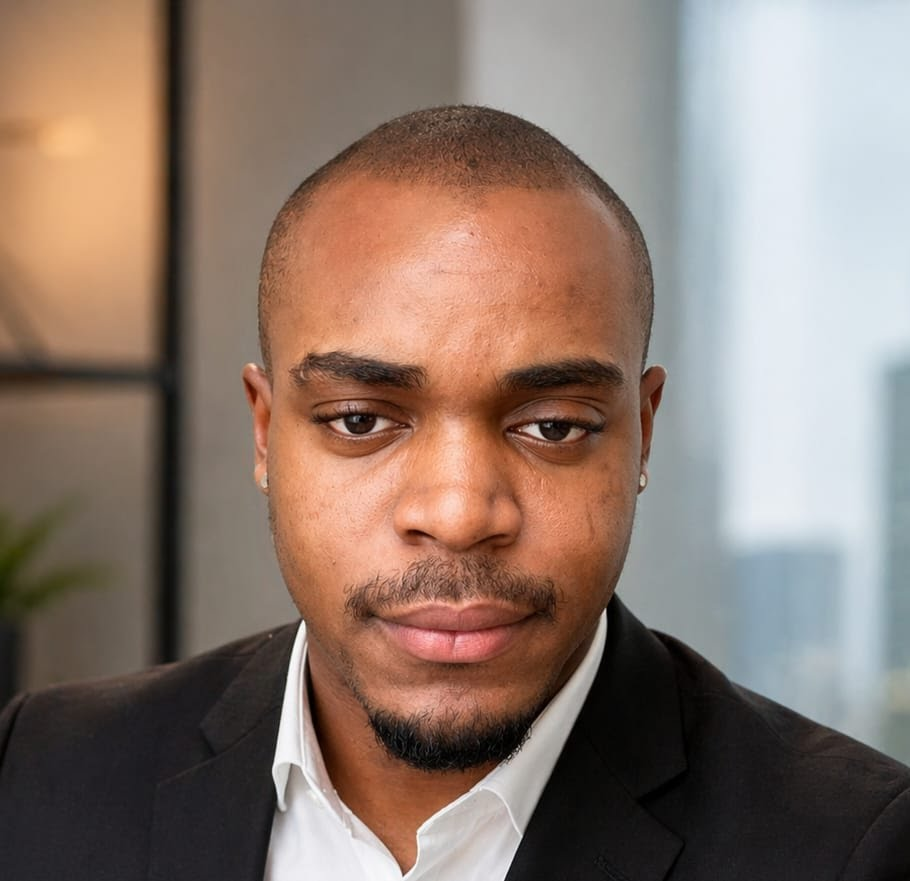
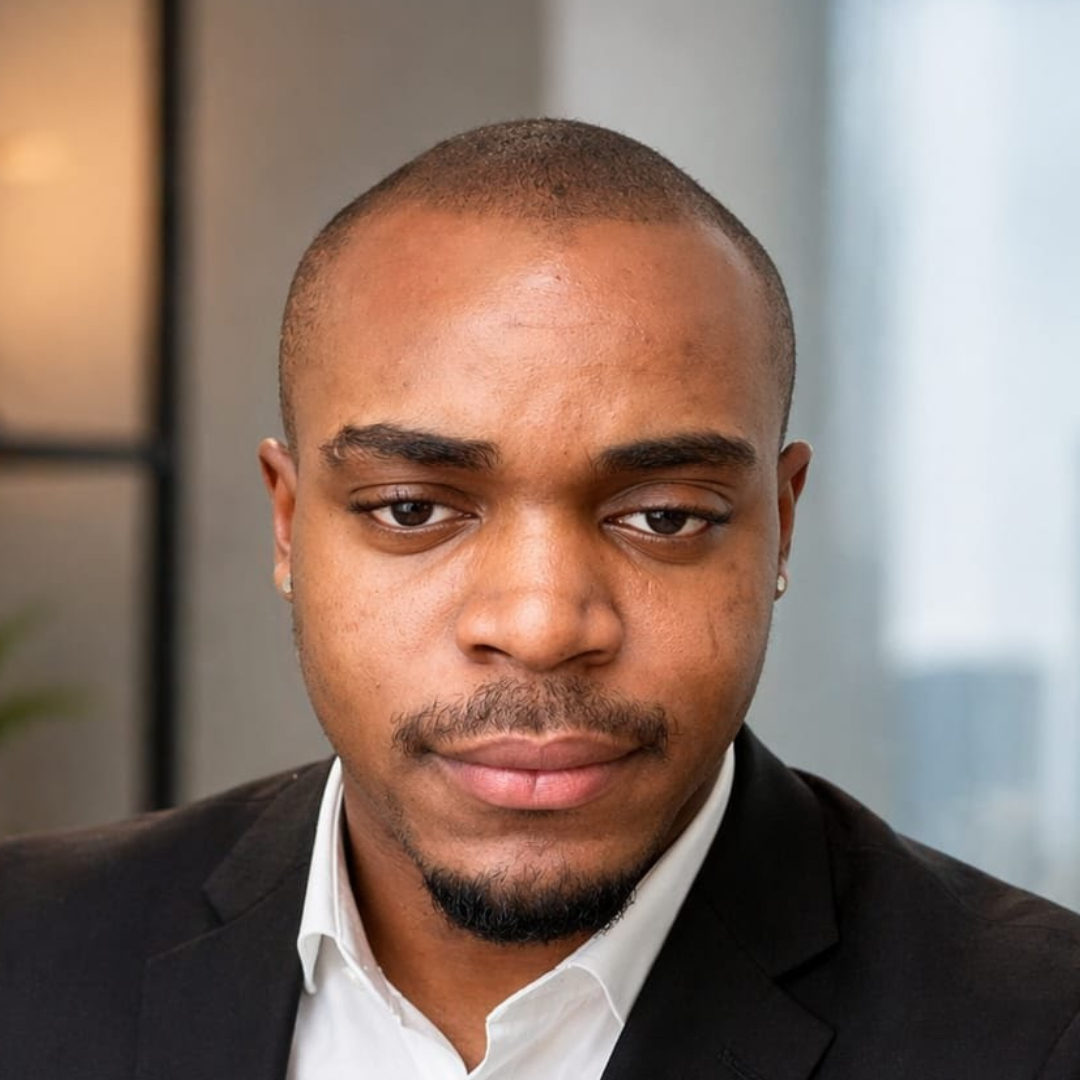
feat(ai): migrate Gemini to Supabase Edge Function to resolve CORS and secure API key

diff --git a/supabase/functions/ai-analyze/index.ts b/supabase/functions/ai-analyze/index.ts
@@ -1,13 +1,15 @@
-import { GoogleGenAI } from "npm:@google/genai";
+import { serve } from 'https://deno.land/std@0.168.0/http/server.ts';
 
-const corsHeaders = {
+const CORS_HEADERS = {
   'Access-Control-Allow-Origin': '*',
   'Access-Control-Allow-Headers': 'authorization, x-client-info, apikey, content-type',
+  'Content-Type': 'application/json',
 };
 
-Deno.serve(async (req) => {
+serve(async (req) => {
+  // Handle CORS preflight
   if (req.method === 'OPTIONS') {
-    return new Response('ok', { headers: corsHeaders });
+    return new Response('ok', { headers: CORS_HEADERS });
   }
 
   try {
@@ -15,46 +17,84 @@ Deno.serve(async (req) => {
 
     const apiKey = Deno.env.get('GEMINI_API_KEY');
     if (!apiKey) {
-      return new Response(JSON.stringify({ error: "Missing GEMINI_API_KEY" }), { 
-        status: 500, 
-        headers: { ...corsHeaders, 'Content-Type': 'application/json' } 
-      });
+      return new Response(
+        JSON.stringify({ error: 'GEMINI_API_KEY not configured' }),
+        { status: 500, headers: CORS_HEADERS }
+      );
     }
 
-    const ai = new GoogleGenAI({ apiKey });
+    let prompt = '';
 
-    let result = '';
+    if (type === 'insight') {
+      prompt = `És um analista sénior de cibersegurança da NXRSCRIPTS, empresa angolana de tecnologia.
+Fornece um resumo profissional e técnico (máximo 2 frases) sobre o seguinte tópico de segurança: "${payload}".
+Foca em mitigação de riscos e tendências actuais.
+Responde em português de Portugal. Não uses markdown, asteriscos nem formatação especial.`;
 
-    if (type === 'categorize') {
-      const response = await ai.models.generateContent({
-        model: 'gemini-2.0-flash',
-        contents: `Analyze the following contact message and determine the category (Sales, Support, Partnership, or General). 
-            Return ONLY the category name in English (to match system types). Message: "${payload}"`
-      });
-      result = response.text?.trim() || "General";
-    } else if (type === 'insight') {
-      const response = await ai.models.generateContent({
-        model: 'gemini-2.0-flash',
-        contents: `You are a senior cybersecurity analyst at NXRSCRIPTS. 
-      Provide a brief, professional, and technical insight (max 2 sentences) about the following topic: "${payload}". 
-      Focus on risk mitigation and future trends. Write your response in Portuguese (Portugal). Do not use markdown.`,
-      });
-      result = response.text || "Insight de segurança indisponível no momento.";
-    } else {
-      return new Response(JSON.stringify({ error: "Invalid type provided" }), { 
-        status: 400, 
-        headers: { ...corsHeaders, 'Content-Type': 'application/json' } 
-      });
+    } else if (type === 'categorize') {
+      prompt = `Analisa a seguinte mensagem de contacto e determina a categoria (Sales, Support, Partnership ou General).
+Retorna APENAS o nome da categoria em inglês. Mensagem: "${payload}"`;
+
+    } else if (type === 'chat') {
+      const { message, history = [] } = typeof payload === 'string' ? JSON.parse(payload) : payload;
+      const historyText = history.slice(-6).map((m: { role: string; text: string }) =>
+        `${m.role === 'user' ? 'Utilizador' : 'NXR Assistant'}: ${m.text}`
+      ).join('\n');
+
+      prompt = `És o NXR Assistant, assistente digital da NXRSCRIPTS — empresa angolana de TI em Luanda.
+Respondes SEMPRE em português de Portugal (nunca brasileiro).
+Especialização: cibersegurança, desenvolvimento de software, redes, telecomunicações, consultoria IT, transformação digital.
+Respostas concisas (máximo 3 parágrafos). Quando o utilizador mostrar interesse em serviços: sugere visitar /contact ou /quote.
+Não responder a perguntas fora do âmbito tecnológico/empresarial.
+Se não souberes algo específico: "Para informação detalhada, contacta-nos em [email redacted] ou +244 923 479 049".
+
+${historyText ? `Histórico da conversa:\n${historyText}\n\n` : ''}Utilizador: ${message}
+NXR Assistant:`;
     }
 
-    return new Response(JSON.stringify({ result }), {
-      headers: { ...corsHeaders, 'Content-Type': 'application/json' },
-    });
-  } catch (error: any) {
-    console.error("Error in ai-analyze edge function:", error);
-    return new Response(JSON.stringify({ error: error.message || "Unknown error" }), { 
-      status: 500, 
-      headers: { ...corsHeaders, 'Content-Type': 'application/json' } 
-    });
+    if (!prompt) {
+      return new Response(
+        JSON.stringify({ error: 'Invalid type. Use: insight, categorize, or chat' }),
+        { status: 400, headers: CORS_HEADERS }
+      );
+    }
+
+    const geminiResponse = await fetch(
+      `https://generativelanguage.googleapis.com/v1beta/models/gemini-2.0-flash:generateContent?key=${apiKey}`,
+      {
+        method: 'POST',
+        headers: { 'Content-Type': 'application/json' },
+        body: JSON.stringify({
+          contents: [{ parts: [{ text: prompt }] }],
+          generationConfig: {
+            maxOutputTokens: type === 'chat' ? 400 : (type === 'insight' ? 150 : 20),
+            temperature: type === 'chat' ? 0.7 : 0.3,
+          },
+        }),
+      }
+    );
+
+    if (!geminiResponse.ok) {
+      const errBody = await geminiResponse.text();
+      console.error('[ai-analyze] Gemini error:', errBody);
+      throw new Error(`Gemini API error: ${geminiResponse.status}`);
+    }
+
+    const geminiData = await geminiResponse.json();
+    const result = geminiData?.candidates?.[0]?.content?.parts?.[0]?.text?.trim() || '';
+
+    if (!result) throw new Error('Empty response from Gemini');
+
+    return new Response(
+      JSON.stringify({ result }),
+      { status: 200, headers: CORS_HEADERS }
+    );
+
+  } catch (err) {
+    console.error('[ai-analyze]', err);
+    return new Response(
+      JSON.stringify({ result: null, error: String(err) }),
+      { status: 200, headers: CORS_HEADERS }
+    );
   }
 });

diff --git a/services/geminiService.ts b/services/geminiService.ts
@@ -1,37 +1,59 @@
 import { supabase } from '../lib/supabase';
 
+// Função auxiliar que chama a Edge Function ai-analyze
+async function callAI(type: 'insight' | 'categorize' | 'chat', payload: string | object): Promise<string> {
+  const { data, error } = await supabase.functions.invoke('ai-analyze', {
+    body: {
+      type,
+      payload: typeof payload === 'string' ? payload : JSON.stringify(payload),
+    },
+  });
+
+  if (error) {
+    console.error('[geminiService] Edge function error:', error);
+    throw error;
+  }
+
+  if (!data?.result) {
+    throw new Error('No result from AI');
+  }
+
+  return data.result;
+}
+
+// NXR Insight de Segurança IA (usado em Technologies.tsx)
 export const generateSecurityInsight = async (topic: string): Promise<string> => {
+  if (!topic.trim()) return '';
   try {
-    const { data, error } = await supabase.functions.invoke('ai-analyze', {
-      body: { type: 'insight', payload: topic }
-    });
-
-    if (error) {
-      console.error("Error calling ai-analyze function:", error);
-      return "Erro ao consultar a IA. A função pode estar indisponível.";
-    }
-
-    return data?.result || "Insight de segurança indisponível no momento.";
-  } catch (error) {
-    console.error("Exception calling ai-analyze function:", error);
-    return "Erro ao consultar a IA. Verifique a sua conexão.";
+    return await callAI('insight', topic);
+  } catch (err) {
+    console.error('[generateSecurityInsight]', err);
+    return 'Serviço de IA temporariamente indisponível. Tenta novamente.';
   }
 };
 
+// Categorização de leads (usado em Contact.tsx)
 export const analyzeMessageIntent = async (message: string): Promise<string> => {
-    try {
-        const { data, error } = await supabase.functions.invoke('ai-analyze', {
-            body: { type: 'categorize', payload: message }
-        });
+  if (!message.trim()) return 'General';
+  try {
+    const result = await callAI('categorize', message);
+    const validCategories = ['Sales', 'Support', 'Partnership', 'General'];
+    const cleaned = result.replace(/[^a-zA-Z]/g, '');
+    return validCategories.includes(cleaned) ? cleaned : 'General';
+  } catch {
+    return 'General';
+  }
+};
 
-        if (error) {
-            console.error("Error calling ai-analyze function:", error);
-            return "General";
-        }
-
-        return data?.result || "General";
-    } catch (error) {
-        console.error("Exception calling ai-analyze function:", error);
-        return "General";
-    }
-}
+// Chat NXR Assistant (usado no componente Chatbot)
+export const sendChatMessage = async (
+  message: string,
+  history: { role: 'user' | 'model'; text: string }[] = []
+): Promise<string> => {
+  try {
+    return await callAI('chat', { message, history });
+  } catch (err) {
+    console.error('[sendChatMessage]', err);
+    throw err; // propagar para o componente tratar
+  }
+};

diff --git a/components/Chatbot.tsx b/components/Chatbot.tsx
@@ -1,6 +1,6 @@
 import React, { useState, useEffect, useRef } from 'react';
 import { MessageSquare, X, Send } from 'lucide-react';
-import { supabase } from '../lib/supabase';
+import { sendChatMessage } from '../services/geminiService';
 
 type Role = 'user' | 'model';
 
@@ -85,17 +85,8 @@ export const Chatbot: React.FC = () => {
       // Limit to last 10 messages for context
       const contextHistory = messages.slice(-10);
 
-      const { data, error } = await supabase.functions.invoke('chat', {
-        body: { message: userMsg.text, history: contextHistory },
-      });
-
-      if (error) throw new Error(error.message);
-
-      if (data && data.reply) {
-        setMessages(prev => [...prev, { role: 'model', text: data.reply }]);
-      } else {
-        throw new Error('No reply from assistant');
-      }
+      const reply = await sendChatMessage(userMsg.text, contextHistory);
+      setMessages(prev => [...prev, { role: 'model', text: reply }]);
     } catch (err) {
       console.error('Chat error:', err);
       setMessages(prev => [